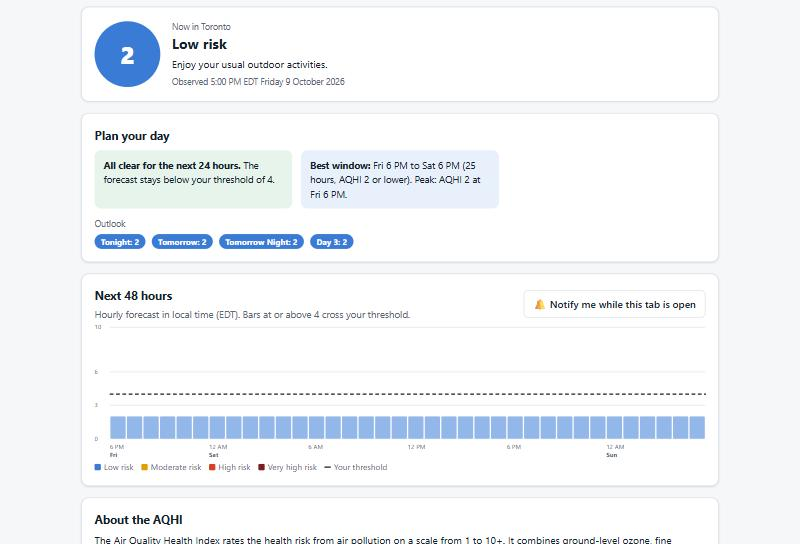
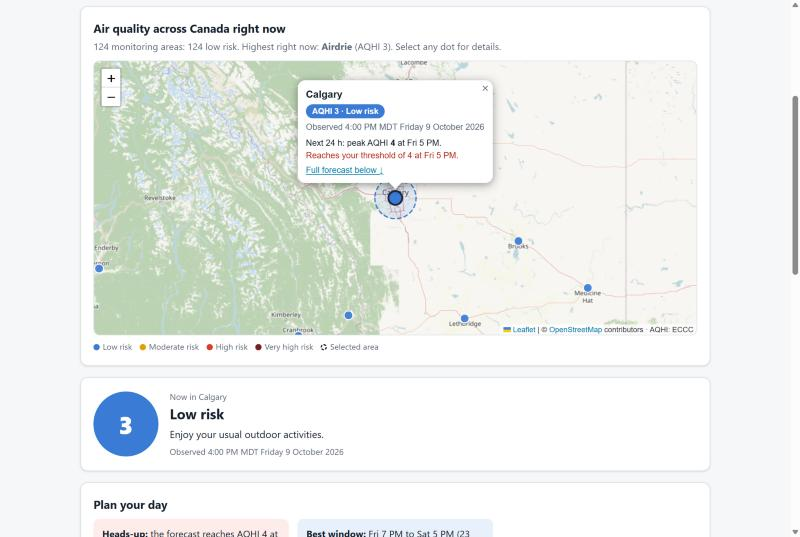
Add interactive map of Canada with area highlight and info popups

diff --git a/lib/map.js b/lib/map.js
@@ -1,0 +1,116 @@
+// Map of AQHI communities (Leaflet). AQHI is published per community, an
+// average of local stations, so each area is shown as a point; the selected
+// one gets a highlight ring rather than a boundary we don't have.
+(function (AA) {
+  "use strict";
+
+  const HIGHLIGHT_RADIUS_M = 25000;
+  const esc = (s) => String(s).replace(/[&<>"']/g, (c) => ({ "&": "&amp;", "<": "&lt;", ">": "&gt;", '"': "&quot;", "'": "&#39;" }[c]));
+
+  // Marker style for a reading; pure, so it can be tested.
+  AA.markerStyle = function (aqhi, selected) {
+    const c = aqhi == null ? { color: "#8a94a3" } : AA.category(aqhi);
+    return selected
+      ? { radius: 11, weight: 3, color: "#16202b", fillColor: c.color, fillOpacity: 1 }
+      : { radius: 7, weight: 1.5, color: "#ffffff", fillColor: c.color, fillOpacity: 0.9 };
+  };
+
+  // Counts per category plus the worst reading right now.
+  AA.summarize = function (locations, observations) {
+    const counts = Object.fromEntries(AA.CATEGORIES.map((c) => [c.id, 0]));
+    let worst = null;
+    for (const l of locations) {
+      const o = observations.get(l.id);
+      if (!o || o.aqhi == null) continue;
+      counts[AA.category(o.aqhi).id]++;
+      if (!worst || o.aqhi > worst.aqhi) worst = { name: l.name, aqhi: o.aqhi };
+    }
+    return { counts, worst };
+  };
+
+  AA.createMap = function (el, { onSelect }) {
+    if (!window.L) return null;
+    const dark = window.matchMedia && matchMedia("(prefers-color-scheme: dark)").matches;
+    const map = L.map(el, { scrollWheelZoom: false, zoomSnap: 0.5, worldCopyJump: false, minZoom: 3 });
+    // OpenStreetMap's standard tiles: free with attribution for light use. Dark mode inverts them with CSS.
+    if (dark) el.classList.add("dark-tiles");
+    L.tileLayer("https://tile.openstreetmap.org/{z}/{x}/{y}.png", {
+      maxZoom: 12,
+      attribution: '&copy; <a href="https://www.openstreetmap.org/copyright">OpenStreetMap</a> contributors · AQHI: ECCC',
+    }).addTo(map);
+    map.fitBounds([[42, -135], [62, -55]]);
+
+    // Scroll-zoom only after the user engages with the map, so the page still scrolls.
+    map.on("click focus", () => map.scrollWheelZoom.enable());
+    map.on("mouseout blur", () => map.scrollWheelZoom.disable());
+
+    const markers = new Map();
+    let ring = null;
+    let selectedId = null;
+    let data = { locations: [], observations: new Map() };
+
+    function setLocations(locations, observations) {
+      data = { locations, observations };
+      markers.forEach((m) => m.remove());
+      markers.clear();
+      for (const l of locations) {
+        const o = observations.get(l.id);
+        const m = L.circleMarker([l.lat, l.lon], AA.markerStyle(o ? o.aqhi : null, false))
+          .bindTooltip(`${esc(l.name)}${o ? ` · AQHI ${Math.round(o.aqhi)}` : ""}`, { direction: "top", offset: [0, -6] })
+          .on("click", () => onSelect(l.id))
+          .addTo(map);
+        markers.set(l.id, m);
+      }
+      const pts = locations.map((l) => [l.lat, l.lon]);
+      if (pts.length) map.fitBounds(pts, { padding: [24, 24], maxZoom: 6 });
+    }
+
+    function popupHtml(id, extra) {
+      const l = data.locations.find((x) => x.id === id);
+      const o = data.observations.get(id);
+      if (!l) return "";
+      const c = o ? AA.category(o.aqhi) : null;
+      return `<div class="map-pop">
+        <div class="pop-title">${esc(l.name)}</div>
+        ${c ? `<div><span class="badge" style="background:${c.color};color:#fff">AQHI ${Math.round(o.aqhi) > 10 ? "10+" : Math.round(o.aqhi)} · ${c.name}</span></div>
+        <div class="small muted">Observed ${esc(o.observation_datetime_text_en.replace(/\s+/g, " "))}</div>` : `<div class="small muted">No current reading</div>`}
+        ${extra ? `<div class="small" style="margin-top:6px">${extra}</div>` : ""}
+      </div>`;
+    }
+
+    // Highlight an area: bigger outlined marker, a ring around it, popup with info.
+    function highlight(id, { fly = true, popup = true, extra = "" } = {}) {
+      const l = data.locations.find((x) => x.id === id);
+      if (!l) return;
+      if (selectedId && markers.has(selectedId)) {
+        const prev = data.observations.get(selectedId);
+        markers.get(selectedId).setStyle(AA.markerStyle(prev ? prev.aqhi : null, false));
+      }
+      selectedId = id;
+      const o = data.observations.get(id);
+      const m = markers.get(id);
+      m.setStyle(AA.markerStyle(o ? o.aqhi : null, true)).bringToFront();
+      if (ring) ring.remove();
+      const color = o ? AA.category(o.aqhi).color : "#8a94a3";
+      ring = L.circle([l.lat, l.lon], { radius: HIGHLIGHT_RADIUS_M, color, weight: 2, dashArray: "6 5", fillColor: color, fillOpacity: 0.12, interactive: false }).addTo(map);
+      m.bindPopup(popupHtml(id, extra), { autoPan: true, closeButton: true, offset: [0, -4] });
+      // Open the popup after the fly animation ends: its auto-pan would otherwise cancel the zoom.
+      if (fly) {
+        map.once("moveend", () => { if (popup && selectedId === id) m.openPopup(); });
+        map.flyTo([l.lat, l.lon], Math.max(map.getZoom(), 7), { duration: 0.8 });
+      } else if (popup) {
+        m.openPopup();
+      }
+    }
+
+    function updateInfo(extra) {
+      if (!selectedId || !markers.has(selectedId)) return;
+      const m = markers.get(selectedId);
+      m.setPopupContent(popupHtml(selectedId, extra));
+    }
+
+    function invalidate() { map.invalidateSize(); }
+
+    return { setLocations, highlight, updateInfo, invalidate };
+  };
+})(window.AA = window.AA || {});

diff --git a/app.js b/app.js
@@ -42,7 +42,34 @@
     save(); render();
   });
   $("threshold").addEventListener("input", () => { setThreshold(+$("threshold").value); save(); render(); });
-  $("location").addEventListener("change", () => { prefs.location = $("location").value; save(); loadForecast(); });
+  $("location").addEventListener("change", () => selectLocation($("location").value));
+
+  // ---- Map ------------------------------------------------------------------
+
+  const map = AA.createMap($("map"), { onSelect: (id) => selectLocation(id) });
+  if (!map) {
+    $("map-summary").textContent = "The map couldn't load. Use the location list above instead.";
+    $("map").classList.add("hidden");
+  }
+  $("map-legend").innerHTML = AA.CATEGORIES.map((c) => `<span><i style="background:${c.color};border-radius:50%"></i>${c.name}</span>`).join("") +
+    `<span><i style="border:2px dashed var(--ink);border-radius:50%;background:none"></i>Selected area</span>`;
+
+  // One entry point for every way of choosing an area: map, list, or "use my location".
+  function selectLocation(id, { fly = true } = {}) {
+    if (!locations.some((l) => l.id === id)) return;
+    prefs.location = id;
+    $("location").value = id;
+    save();
+    if (map) map.highlight(id, { fly });
+    loadForecast();
+  }
+
+  function renderMapSummary() {
+    const { counts, worst } = AA.summarize(locations, observations);
+    const parts = AA.CATEGORIES.filter((c) => counts[c.id]).map((c) => `${counts[c.id]} ${c.name.toLowerCase()}`);
+    $("map-summary").innerHTML = `${locations.length} monitoring areas: ${parts.join(", ")}.` +
+      (worst ? ` Highest right now: <strong>${esc(worst.name)}</strong> (AQHI ${Math.round(worst.aqhi) > 10 ? "10+" : Math.round(worst.aqhi)}). Select any dot for details.` : "");
+  }
 
   // Below 4 is "low risk", where official guidance is to carry on as usual, so alerting there isn't meaningful.
   function setThreshold(v) {
@@ -60,7 +87,7 @@
         const n = AA.nearest(locations, pos.coords.latitude, pos.coords.longitude);
         if (!n) return;
         $("locate-note").textContent = `Nearest AQHI area: ${n.name} (about ${n.km} km away). Your location isn't stored or sent anywhere.`;
-        prefs.location = n.id; $("location").value = n.id; save(); loadForecast();
+        selectLocation(n.id);
       },
       () => { $("locate-note").textContent = "Couldn't get your location. Pick from the list instead."; },
       { maximumAge: 600000, timeout: 10000 }
@@ -93,6 +120,8 @@
       prefs.location = (toronto || locations[0]).id;
     }
     $("location").value = prefs.location;
+    if (map) map.setLocations(locations, observations);
+    renderMapSummary();
   }
 
   async function loadForecast() {
@@ -154,6 +183,16 @@
       }).join("")}</div></div>`;
     }
 
+    if (map) {
+      map.updateInfo(next24.length
+        ? `<div>Next 24 h: peak AQHI <strong>${Math.round(peak.aqhi)}</strong> at ${when(peak)}.</div>` +
+          (above
+            ? `<div style="color:var(--bad)">Reaches your threshold of ${prefs.threshold} at ${when(above)}.</div>`
+            : `<div>Stays below your threshold of ${prefs.threshold}.</div>`) +
+          `<div style="margin-top:4px"><a href="#now-card">Full forecast below ↓</a></div>`
+        : `<div class="muted">No forecast for this area right now.</div>`);
+    }
+
     drawChart(hours);
   }
 
@@ -209,6 +248,7 @@
   // ---- Start --------------------------------------------------------------
 
   loadLocations()
-    .then(loadForecast)
+    // On first load, mark the saved area but keep the overview: no zoom, no popup covering the map.
+    .then(() => { if (map) map.highlight(prefs.location, { fly: false, popup: false }); return loadForecast(); })
     .catch((e) => showError(`Couldn't reach Environment Canada's air quality service (${e.message}). Try again shortly.`));
 })();

diff --git a/index.html b/index.html
@@ -5,8 +5,18 @@
   <meta name="viewport" content="width=device-width, initial-scale=1" />
   <title>AirAhead: plan around air quality</title>
   <meta name="description" content="Plan your day around air quality and wildfire smoke. Live AQHI forecasts from Environment and Climate Change Canada, with your own risk threshold." />
+  <link rel="stylesheet" href="https://cdnjs.cloudflare.com/ajax/libs/leaflet/1.9.4/leaflet.min.css" crossorigin="anonymous" referrerpolicy="no-referrer" />
   <link rel="stylesheet" href="styles.css" />
   <style>
+    #map { height: 440px; border-radius: 10px; border: 1px solid var(--line); margin-top: 12px; background: var(--surface-2); z-index: 0; }
+    .leaflet-popup-content-wrapper, .leaflet-popup-tip { background: var(--surface); color: var(--ink); }
+    .leaflet-popup-content { margin: 10px 12px; font: inherit; line-height: 1.45; }
+    .map-pop .pop-title { font-weight: 700; font-size: 1rem; margin-bottom: 4px; }
+    .map-pop .badge { margin-bottom: 4px; }
+    .leaflet-container a.leaflet-popup-close-button { color: var(--muted); }
+    #map .leaflet-tile-pane { filter: saturate(0.6) brightness(1.03); }
+    #map.dark-tiles .leaflet-tile-pane { filter: invert(1) hue-rotate(180deg) brightness(0.9) contrast(0.9) saturate(0.5); }
+    @media (max-width: 600px) { #map { height: 340px; } }
     .now { display: grid; grid-template-columns: auto 1fr; gap: 18px; align-items: center; }
     .dial { width: 104px; height: 104px; border-radius: 50%; display: grid; place-items: center; color: #fff; font-size: 2.4rem; font-weight: 800; }
     .chart { width: 100%; height: 220px; display: block; }
@@ -59,6 +69,17 @@
       <p class="small muted" style="margin:10px 0 0">People at higher risk include children, people over 65, and those with heart or lung conditions such as asthma. They may want a lower threshold.</p>
     </section>
 
+    <section class="card" id="map-card">
+      <div class="row" style="justify-content:space-between">
+        <div>
+          <h2>Air quality across Canada right now</h2>
+          <p class="sub" id="map-summary" style="margin:0">Loading monitoring areas…</p>
+        </div>
+      </div>
+      <div id="map" role="region" aria-label="Map of AQHI monitoring areas. Select a dot to see that area's conditions, or use the location list above."></div>
+      <div class="legend" id="map-legend" style="margin-top:8px"></div>
+    </section>
+
     <div id="error" class="callout bad hidden" style="margin-top:18px"></div>
 
     <section class="card" id="now-card">
@@ -102,7 +123,9 @@
     </div>
   </footer>
 
+  <script src="https://cdnjs.cloudflare.com/ajax/libs/leaflet/1.9.4/leaflet.min.js" crossorigin="anonymous" referrerpolicy="no-referrer"></script>
   <script src="lib/aqhi.js"></script>
+  <script src="lib/map.js"></script>
   <script src="app.js"></script>
 </body>
 </html>

diff --git a/tests/index.html b/tests/index.html
@@ -15,6 +15,7 @@
     </div>
   </main>
   <script src="../lib/aqhi.js"></script>
+  <script src="../lib/map.js"></script>
   <script>
     const results = [];
     const test = (name, fn) => { try { fn(); results.push({ name, ok: true }); } catch (e) { results.push({ name, ok: false, error: e.message }); } };
@@ -83,6 +84,21 @@
       const locs = [{ id: "TOR", name: "Toronto", lat: 43.65, lon: -79.38 }, { id: "VAN", name: "Vancouver", lat: 49.28, lon: -123.12 }];
       const n = AA.nearest(locs, 43.59, -79.64); // Mississauga
       eq(n.id, "TOR"); eq(n.km < 30, true);
+    });
+
+    test("Map markers use the category colour and grow when selected", () => {
+      const normal = AA.markerStyle(8, false), sel = AA.markerStyle(8, true);
+      eq(normal.fillColor, AA.category(8).color);
+      eq(sel.radius > normal.radius, true);
+      eq(sel.weight > normal.weight, true);
+      eq(AA.markerStyle(null, false).fillColor, "#8a94a3", "grey when there's no reading");
+    });
+
+    test("Map summary counts areas by risk and finds the worst", () => {
+      const locs = [{ id: "A", name: "Alpha" }, { id: "B", name: "Beta" }, { id: "C", name: "Gamma" }];
+      const obs = new Map([["A", { aqhi: 2 }], ["B", { aqhi: 7.4 }], ["C", { aqhi: 3 }]]);
+      const s = AA.summarize(locs, obs);
+      eq(s.counts.low, 2); eq(s.counts.high, 1); eq(s.worst.name, "Beta");
     });
 
     const passed = results.filter((r) => r.ok).length;

diff --git a/docs/prd.md b/docs/prd.md
@@ -33,6 +33,7 @@ Turn the official AQHI forecast into **a decision about when to be outside**, pe
 | Must | First crossing, best window and peak for the next 24 hours | ✅ |
 | Must | Clear errors when the data service is unavailable | ✅ |
 | Should | 48-hour chart in the location's local time | ✅ |
+| Should | Map of all areas coloured by current risk; selecting one highlights it and shows its info | ✅ v1.1 |
 | Should | Nearest area from browser location, not stored | ✅ |
 | Should | Shareable URL | ✅ |
 | Could | Notifications while the tab is open | ✅ |
@@ -58,6 +59,9 @@ Turn the official AQHI forecast into **a decision about when to be outside**, pe
 | **Threshold floor of 4** | Allow 1–10 | Below 4 is "low risk" (official guidance: carry on as usual); alerts there contradict the guidance | Can't set ultra-low alerts |
 | **At-risk default 4, general default 7** | One default | Mirrors where official guidance first changes for each group | Users must pick a profile |
 | **Exclude Quebec, say so** | Mix in a different index | Info-Smog isn't comparable to the AQHI; mixing them would mislead | Quebec users aren't served |
+| **Map: points with a highlight ring, not region shapes** | Draw region boundaries | ECCC publishes AQHI per community (an average of local stations), not per region. Drawing boundaries would imply precision the data doesn't have | Less "filled-in" look than a choropleth |
+| **Map, list and location share one selection path** | Separate handlers | Whichever way a user picks an area, the map, cards, chart and URL stay in sync | Slightly more coupling in the UI code |
+| **OpenStreetMap tiles** | Commercial basemaps | Free with attribution for light use and no API key. A keyed provider (CARTO) started showing "API key required" during development | Must stay within OSM's tile usage policy; revisit if traffic grows |
 
 ## Risks
 
@@ -67,6 +71,7 @@ Turn the official AQHI forecast into **a decision about when to be outside**, pe
 | API changes its format (it already mixes hourly and period records) | Tests built on real response shapes; explicit filtering |
 | Users rely on it as medical advice | Clear disclaimer; official guidance only |
 | Notifications stop when the tab closes | Labelled clearly in the button text |
+| Map tiles fail to load (third-party dependency) | The location list stays fully usable; if the map library fails, the map hides and says so |
 
 ## Roadmap
 

diff --git a/README.md b/README.md
@@ -13,6 +13,7 @@ Wildfire smoke seasons are a growing part of Canadian summers. Official tools te
 ## What it does
 
 - **Live data** for 120+ monitoring areas across Canada, straight from Environment Canada's public API (no server in between).
+- **An interactive map of Canada:** every area is a dot coloured by its current reading, with a national summary ("124 areas, all low risk; highest right now: …"). Choosing an area, whether on the map, from the list or by your location, highlights it, zooms in, and opens an info popup with the current reading and the next-24-hour peak against your threshold.
 - **A personal threshold:** choose *general* or *at higher risk* (children, people over 65, people with heart or lung conditions) and fine-tune the alert level.
 - **Plan your day:** the first hour that crosses your threshold, the longest clean-air window, and the daily peak.
 - **A 48-hour hourly chart** in the location's local time, plus a multi-day outlook.
@@ -42,9 +43,11 @@ Open http://localhost:8000. The app calls `api.weather.gc.ca` directly; the API 
 
 ## Tests
 
-Open [`tests/index.html`](tests/index.html). The tests cover AQHI category bands, the at-risk defaults, using only the latest forecast publication, amended forecasts, ignoring the API's period summaries in the hourly data (a regression found against live data), local-time parsing, threshold detection, best-window detection, and nearest-location search.
+Open [`tests/index.html`](tests/index.html). The tests cover AQHI category bands, the at-risk defaults, using only the latest forecast publication, amended forecasts, ignoring the API's period summaries in the hourly data (a regression found against live data), local-time parsing, threshold detection, best-window detection, nearest-location search, map marker styling, and the national summary.
 
 ## Data and licence
+
+Map: [Leaflet](https://leafletjs.com/) with © [OpenStreetMap](https://www.openstreetmap.org/copyright) contributors.
 
 AQHI data © Environment and Climate Change Canada, via [MSC GeoMet / api.weather.gc.ca](https://api.weather.gc.ca/), used under the [Open Government Licence – Canada](https://open.canada.ca/en/open-government-licence-canada). Health guidance paraphrased from [About the AQHI](https://www.canada.ca/en/environment-climate-change/services/air-quality-health-index/about.html).
 
